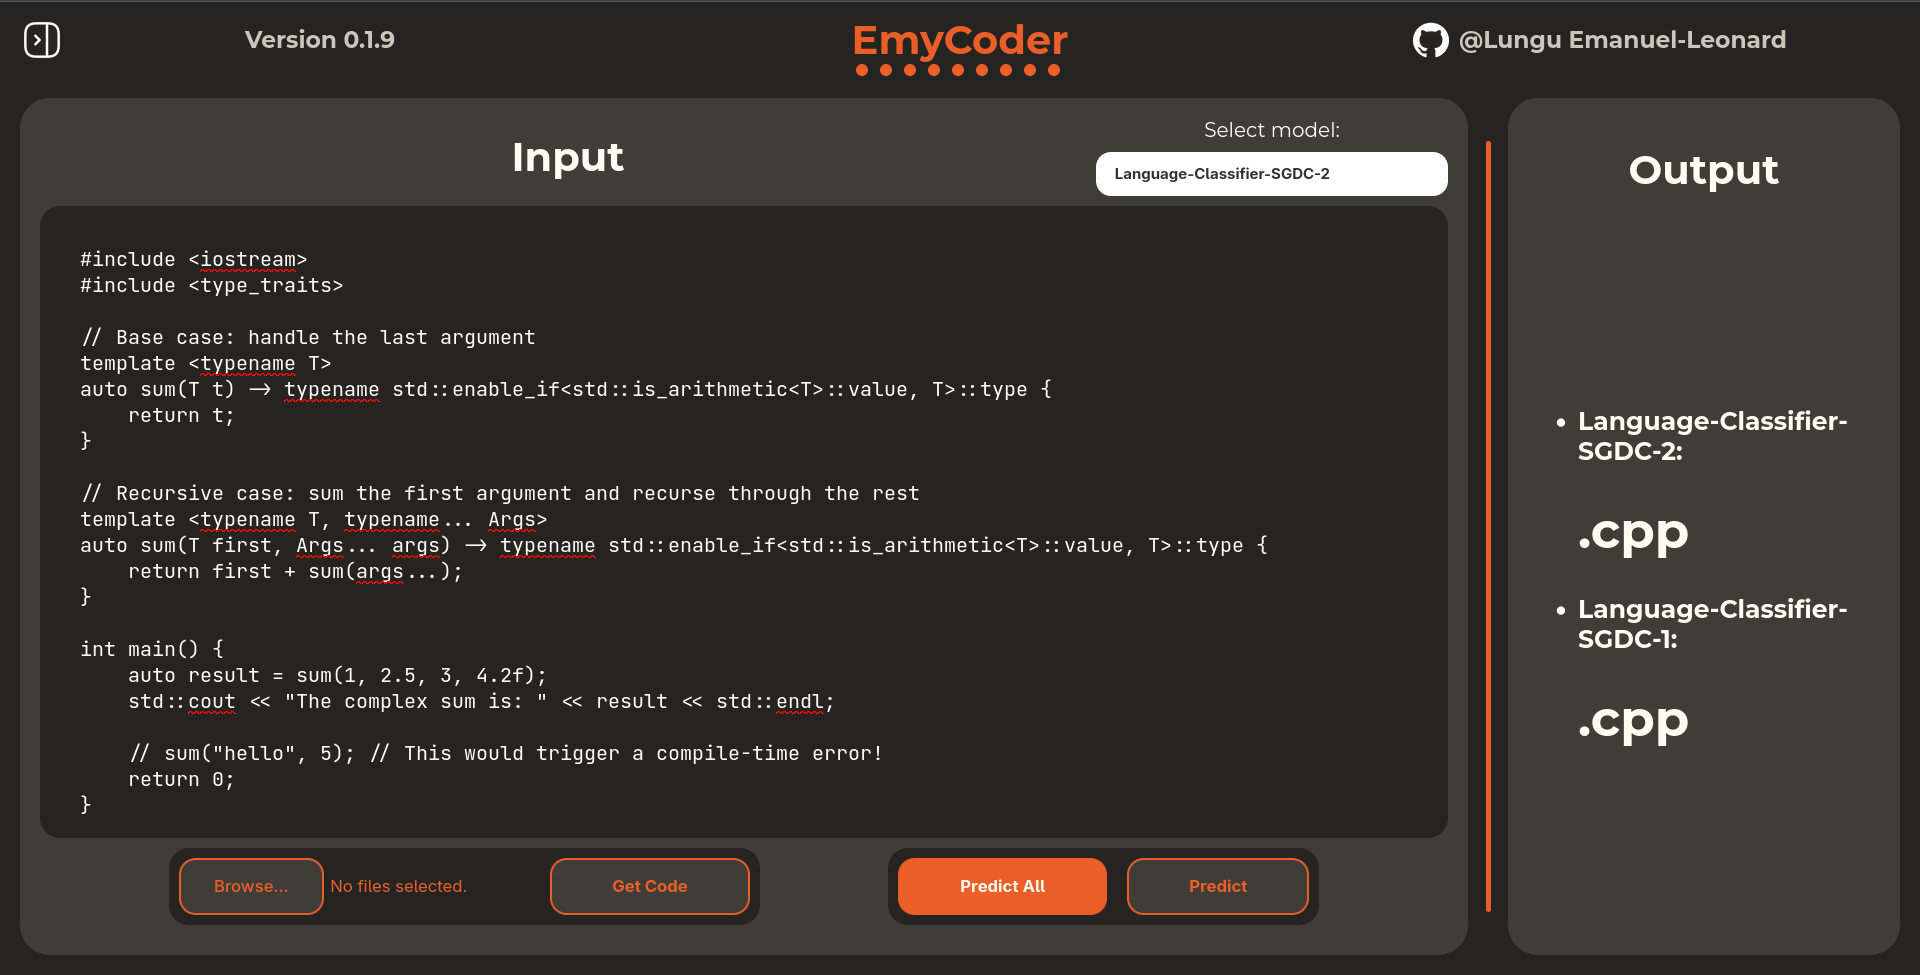
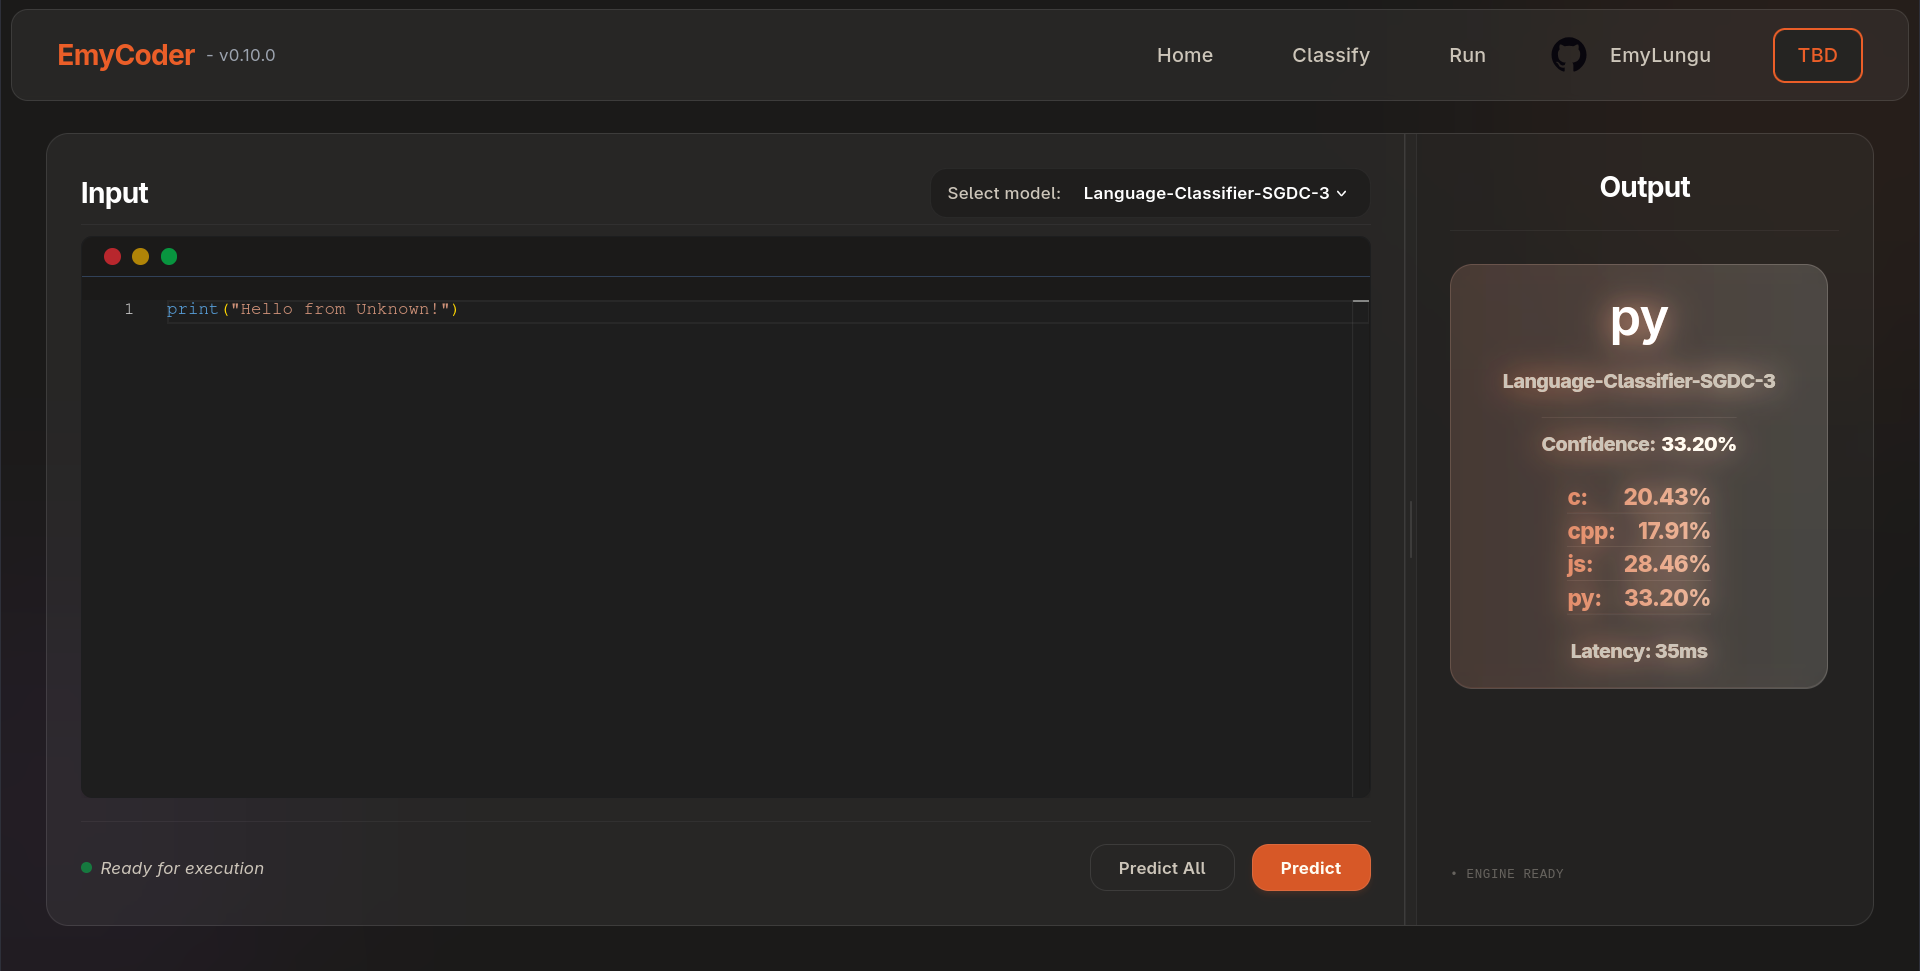
Updated README

diff --git a/README.md b/README.md
@@ -1,14 +1,17 @@
 # EmyCoder: A Secure, AI-Powered Playground for Code Learning
 
-**EmyCoder** is a comprehensive **MLOps** platform built to provide a safe, **intelligent environment** for running and learning code. By combining custom-trained **machine learning** models with isolated execution environments, it offers a secure "**sandbox**" where users can experiment with code, receive **AI-driven guidance**, and explore the lifecycle of a production-grade ML system.
+**EmyCoder** is a high-performance **Fullstack** application backed by a comprehensive **MLOps** platform built to provide a safe, **intelligent environment** for running and learning code. By combining custom-trained **machine learning** models with isolated execution environments, it offers a secure "**sandbox**" where users can experiment with code, receive **AI-driven guidance**, and explore the lifecycle of a production-grade ML system.
 
 The platform handles everything from the initial data scrape to secure script execution. It features a **language classifier** trained from **scratch** on a unique GitHub-sourced dataset, managed and versioned through a dedicated MLOps pipeline. To enhance the learning experience, **EmyCoder** integrates basic **computer vision** for **text extraction** and a fully local **AI chat assistant**, ensuring that your data and code never leave your infrastructure.
 
 #### Runner:
 ![Runner preview Image](preview/runner.png)
 
+#### Assistant:
+![Assistant preview Image](preview/assistant.png)
+
 #### Classifier:
-![Predictor preview Image](preview/classifier.png)
+![Classifier preview Image](preview/classifier.png)
 
 ## 🚀 Key Features
 
@@ -31,11 +34,16 @@ They can also run all the models and get each and every one's prediction.
 
 * **Framework:** [FastAPI](https://fastapi.tiangolo.com/)
 * **ML Library:** [scikit-learn](https://scikit-learn.org/) (Incremental learning using `SGDClassifier`)
-* **MLFlow** [mlflow](https://mlflow.org/) (Models management and deployment)
+* **MLFlow:** [mlflow](https://mlflow.org/) (Models management and deployment)
 * **Ollama:** [Ollama](https://ollama.com/) (Locally hosted LLM Inference Engine)
-* **LangChain** [LangChain](https://www.langchain.com/) (Turns the Ollama hosted models into a Chat-based Assistants)
+* **LangChain:** [LangChain](https://www.langchain.com/) (Turns the Ollama hosted models into a Chat-based Assistants)
 * **Database:** [MongoDB](https://www.mongodb.com/) (Training data storage)
 * **Containerization:** [Docker](https://www.docker.com/) (Snippet isolation)
+
+    ### Frontend Tech Stack
+* **Framework:** [React](https://react.dev/) with [TypeScript](https://www.typescriptlang.org/)
+* **Styling:** [Tailwind CSS](https://tailwindcss.com/)
+* **Code Editor:** [Monaco Editor](https://microsoft.github.io/monaco-editor/) (the engine behind VS Code) for syntax highlighting and a native coding feel.
 
 ## 📥 Getting Started
 
